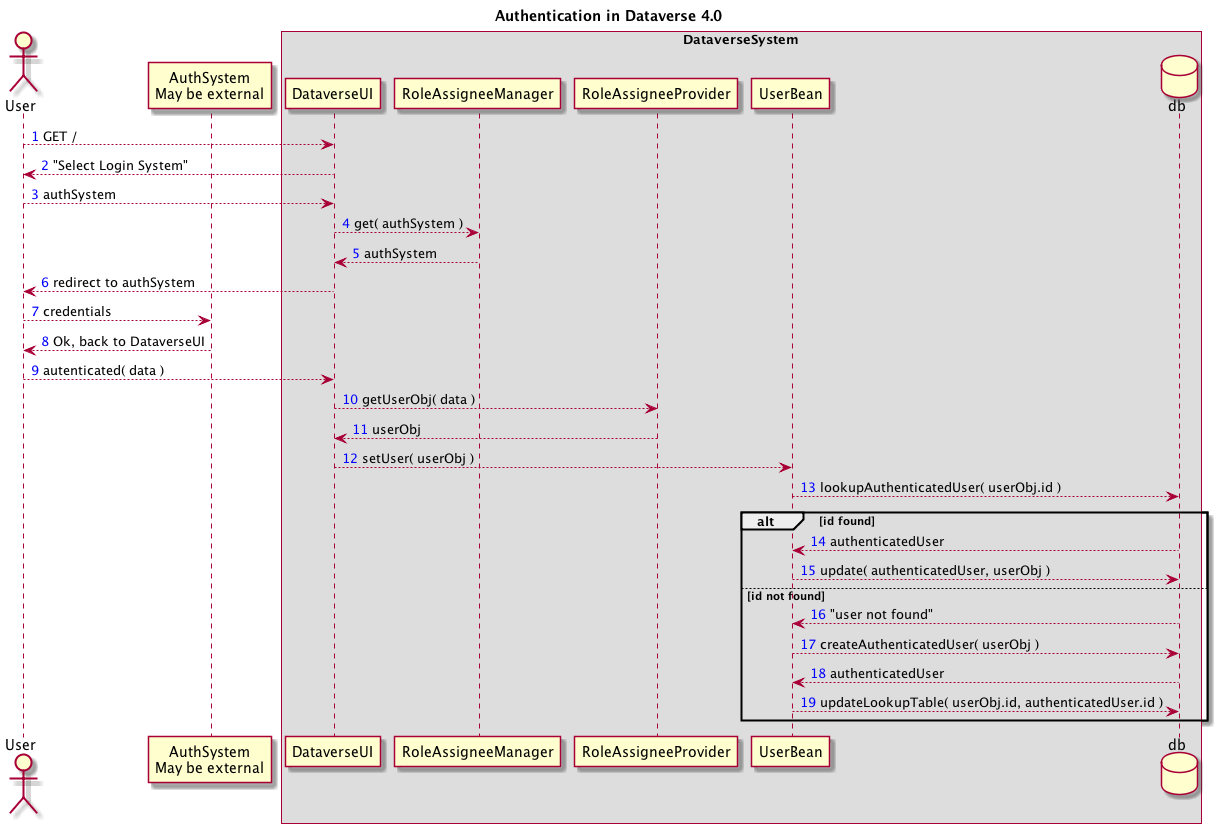
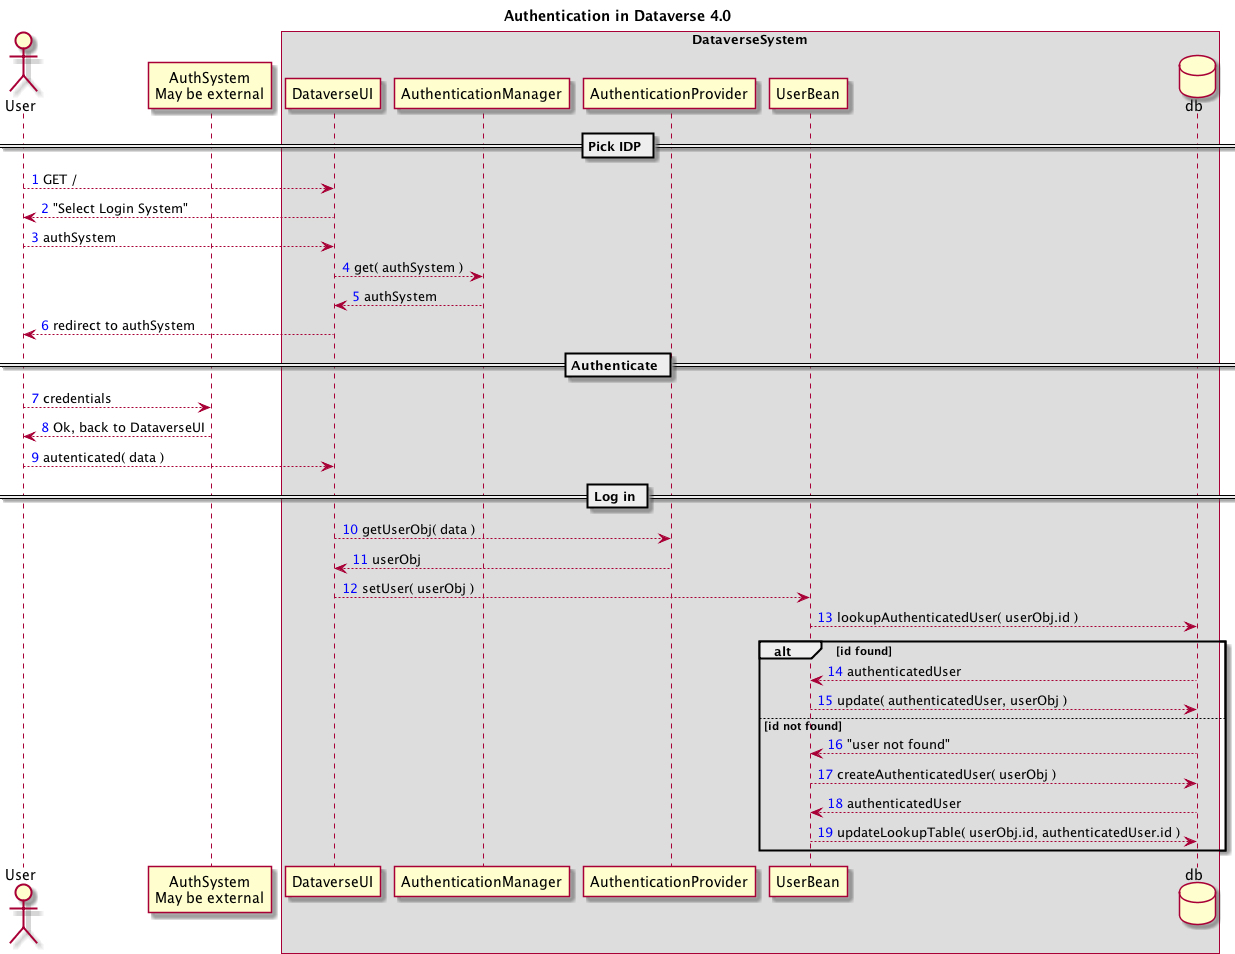
Updated the design documents for auth. Current documents are the basis for the forthcomign implementation

Changed region(s): [[0.0, 0.0, 1.0, 1.0], [0.0, 0.8799, 0.0312, 1.0], [0.1561, 0.2427, 0.1873, 0.2731]]

diff --git a/doc/Architecture/auth.md b/doc/Architecture/auth.md
@@ -1,5 +1,4 @@
 # Pluggable Authentication and Authorization
-## TODO
 
 ## System goals
 
@@ -14,7 +13,7 @@
     <dt>Role</dt>
     <dd>Assumed by assignees on a given <code>DvObject</code>. A role entitles its assignees to a set of permissions.</dd>
     <dt>Assignee</dt>
-    <dd>An entity that can be assigned a role on a given <code>DvObject</code>.</dd>
+    <dd>A user of a group. An entity that can be assigned a role on a given <code>DvObject</code>.</dd>
     <dt>User</dt>
     <dd>A type of Assignee. An entity that can issue commands. Normally refers to a real person, but can also refer to a group (e.g. <code>GuestUser</code>).</dd>
     <dt>Group</dt>
@@ -37,11 +36,12 @@
 * For authenticated users from other systems, group memberships are never cached on the Dataverse side, to avoid stale data (as in, user removed from institute directory but still has institute permission on Dataverse).
     - A `RoleAssigneeProvider` may or may not allow Dataverse to issue queries about group memberships of individual users. Users coming from providers that allow such queries will have easier time using API keys, as their group memberships could be validated without them logging in.
 * One cannot go from a user to all the groups said user belongs to. Example: IP group membership is determined at *query* time and based on IP address, not on user id.
-** The mapping between the user generated by the `RoleAssigneeProvider` to the `AuthenticatedUser` is done using a lookup table, mapping from the user's id (a jdbc url-like string) to an `AuthenticatedUser.id`. In the long run, this will allow multiple logins to map to the same internal system user (e.g. a login with Shibboleth or a Mendeley username ends up with the same user).
+* The mapping between the user generated by the `AuthenticationProvider` to the `AuthenticatedUser` is done using a lookup table, mapping from the user's id (a jdbc url-like string) to an `AuthenticatedUser.id`. In the long run, this will allow multiple logins to map to the same internal system user (e.g. a login with Shibboleth or a Mendeley username ends up with the same user).
     - Multiple logins are not planned for 4.0
 * All types of groups and users are equal (i.e, Nothing special about Local Users, except that this user provider is bundled with the system)
     - In particular, `DatabaseUser` is not a subclass of `AuthenticatedUser`. This allows the internal database-backed assignee provider package to evolve independently of the standard cached assignees. `DatabaseUser`s are associated with an `AuthenticatedUser` using the regular lookup table.
 * DvObject access request are sent from `AutehnticatedUser`s. The "to" field is inferred - everyone that has a `Permission.GrantPermissions` permission on said DvObject.
+* To disable account creation by users, sys admins may turn off the `LocalAuthenticationProvider` module.
 
 ## Issues
 * The permission set of an API key might be different from its owner permission set, in case some of the permissions come from group memberships that cannot be validated by the system at the time of the call.
